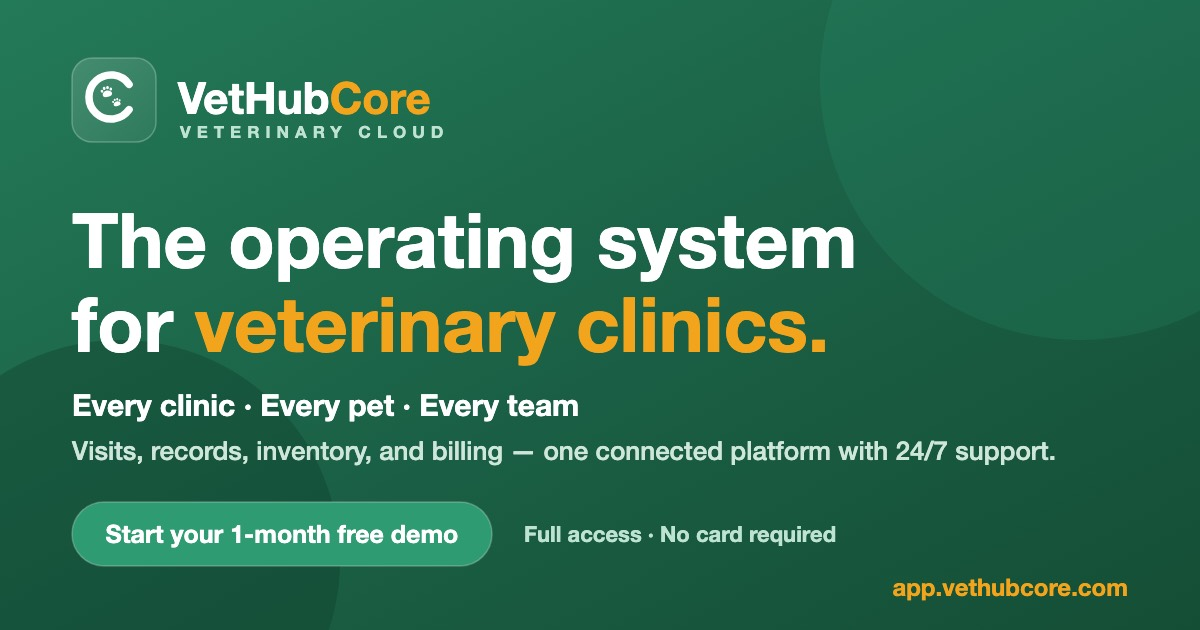
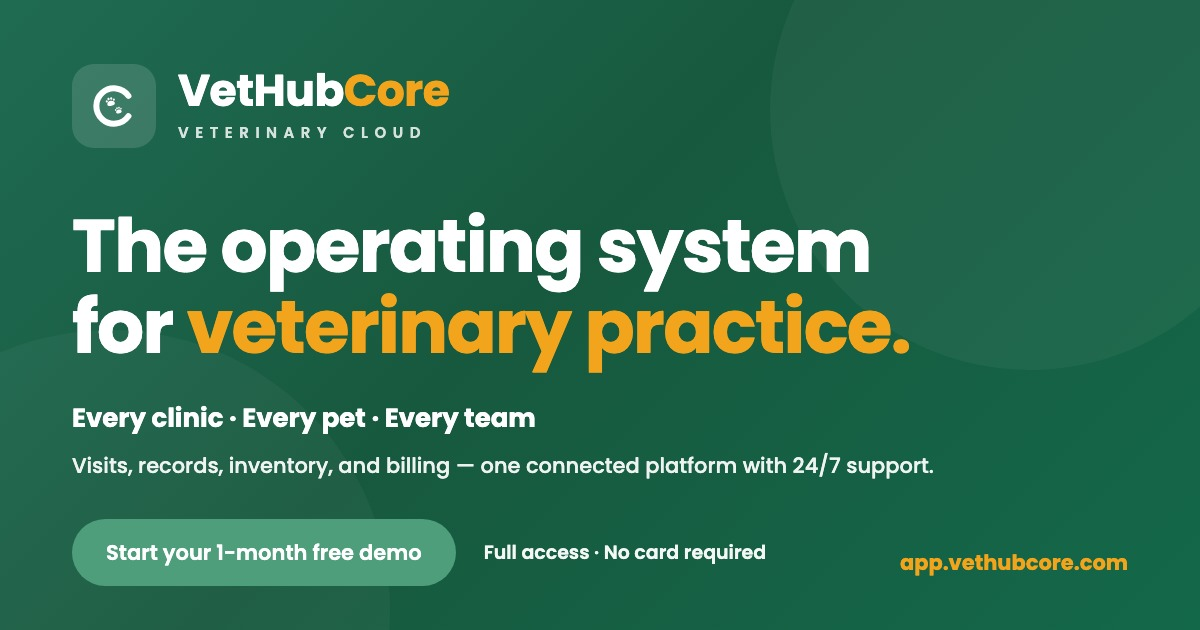
fix: the share card said 'veterinary clinics' while the page said 'veterinary practice'
The hero, the meta description and the noscript h1 all said practice; only the
three titles and the OG artwork said clinics, so a shared link contradicted the
page it opened.

Titles updated and og-image.jpg re-rendered with the headline in the amber the
card already used elsewhere. Cache-buster ?v=3 -> ?v=4: WhatsApp, Facebook and
X cache the image BY URL, so replacing the file at the same path would leave
the old card serving for weeks.

keywords and the structured-data alternateName lists keep 'VetHub' / 'Vet Hub'
on purpose - those are search terms, not the wordmark.

diff --git a/index.html b/index.html
@@ -6,12 +6,12 @@
   <meta name="viewport" content="width=device-width, initial-scale=1.0">
 
   <!-- ── SEO ───────────────────────────────────────────────────────── -->
-  <title>VetHub Core — The Operating System for Veterinary Clinics</title>
+  <title>VetHubCore — The Operating System for Veterinary Practice</title>
   <meta name="description" content="The operating system for veterinary practice. Every clinic · Every pet · Every team. Visits, records, inventory, and billing — one connected platform with 24/7 support. Start your 1-month free demo: full access, no card required.">
   <meta name="keywords" content="VetHub, Vet Hub, VetHub Core, Vet Hub Core, VetHubCore, vethubcore, vethubcore.com, VetHub vet software, VetHub veterinary, VetHub clinic, VetHub app, VetHub login, VetHub Kenya, VetHub Uganda, VetHub Tanzania, VetHub Nigeria, VetHub Ghana, VetHub Rwanda, VetHub South Africa, VetHub East Africa, VetHub Africa, veterinary practice management software, vet clinic software, pet clinic management, vet appointment scheduling, veterinary EMR, pet owner portal, M-Pesa vet payments, veterinary boarding software, pet boarding management, veterinary laboratory software, vet lab results, veterinary surgery management, veterinary imaging software, vet radiology, veterinary inpatient software, animal hospitalization management, emergency vet software, pet grooming software, veterinary vaccination reminders, vaccine package management, veterinary dental records, veterinary pharmacy inventory, vet billing and invoicing, veterinary software Kenya, veterinary software Uganda, veterinary software Tanzania, veterinary software Nigeria, veterinary software Ghana, veterinary software Rwanda, veterinary software South Africa, veterinary software East Africa, veterinary software Africa">
-  <meta name="author" content="VetHub Core">
-  <meta name="application-name" content="VetHub Core">
-  <meta name="apple-mobile-web-app-title" content="VetHub Core">
+  <meta name="author" content="VetHubCore">
+  <meta name="application-name" content="VetHubCore">
+  <meta name="apple-mobile-web-app-title" content="VetHubCore">
   <meta name="robots" content="index, follow, max-image-preview:large">
   <meta name="theme-color" content="#144E35">
   <link rel="canonical" href="https://app.vethubcore.com/">
@@ -22,23 +22,23 @@
 
   <!-- ── Open Graph (WhatsApp, Facebook, LinkedIn) ─────────────────── -->
   <meta property="og:type" content="website">
-  <meta property="og:site_name" content="VetHub Core">
+  <meta property="og:site_name" content="VetHubCore">
   <meta property="og:url" content="https://app.vethubcore.com/">
-  <meta property="og:title" content="VetHub Core — The Operating System for Veterinary Clinics">
+  <meta property="og:title" content="VetHubCore — The Operating System for Veterinary Practice">
   <meta property="og:description" content="Every clinic · Every pet · Every team. Visits, records, inventory, and billing — one connected platform with 24/7 support. Start your 1-month free demo — full access, no card required.">
-  <meta property="og:image" content="https://app.vethubcore.com/og-image.jpg?v=3">
-  <meta property="og:image:secure_url" content="https://app.vethubcore.com/og-image.jpg?v=3">
+  <meta property="og:image" content="https://app.vethubcore.com/og-image.jpg?v=4">
+  <meta property="og:image:secure_url" content="https://app.vethubcore.com/og-image.jpg?v=4">
   <meta property="og:image:type" content="image/jpeg">
   <meta property="og:image:width" content="1200">
   <meta property="og:image:height" content="630">
-  <meta property="og:image:alt" content="VetHub Core — the operating system for veterinary practice">
+  <meta property="og:image:alt" content="VetHubCore — the operating system for veterinary practice">
   <meta property="og:locale" content="en_US">
 
   <!-- ── Twitter / X ───────────────────────────────────────────────── -->
   <meta name="twitter:card" content="summary_large_image">
-  <meta name="twitter:title" content="VetHub Core — The Operating System for Veterinary Clinics">
+  <meta name="twitter:title" content="VetHubCore — The Operating System for Veterinary Practice">
   <meta name="twitter:description" content="Every clinic · Every pet · Every team. Visits, records, inventory, and billing — one connected platform with 24/7 support.">
-  <meta name="twitter:image" content="https://app.vethubcore.com/og-image.jpg?v=3">
+  <meta name="twitter:image" content="https://app.vethubcore.com/og-image.jpg?v=4">
 
   <link rel="preconnect" href="https://fonts.googleapis.com">
   <link rel="preconnect" href="https://fonts.gstatic.com" crossorigin>
@@ -52,7 +52,7 @@
       {
         "@type": "Organization",
         "@id": "https://app.vethubcore.com/#organization",
-        "name": "VetHub Core",
+        "name": "VetHubCore",
         "alternateName": ["VetHubCore", "VetHub", "Vet Hub", "Vet Hub Core"],
         "url": "https://app.vethubcore.com/",
         "logo": "https://app.vethubcore.com/favicon-512.png",
@@ -72,13 +72,13 @@
         "@type": "WebSite",
         "@id": "https://app.vethubcore.com/#website",
         "url": "https://app.vethubcore.com/",
-        "name": "VetHub Core",
+        "name": "VetHubCore",
         "publisher": { "@id": "https://app.vethubcore.com/#organization" },
         "inLanguage": "en"
       },
       {
         "@type": "SoftwareApplication",
-        "name": "VetHub Core",
+        "name": "VetHubCore",
         "alternateName": ["VetHubCore", "VetHub", "Vet Hub"],
         "applicationCategory": "BusinessApplication",
         "applicationSubCategory": "Veterinary Practice Management Software",
@@ -133,9 +133,9 @@
   <div id="root">
     <!-- Crawler-visible content fallback (replaced by the React app on load). -->
     <noscript>
-      <h1>VetHub Core — The operating system for veterinary practice</h1>
+      <h1>VetHubCore — The operating system for veterinary practice</h1>
       <p>
-        VetHub Core is veterinary practice management software that runs your whole
+        VetHubCore is veterinary practice management software that runs your whole
         clinic in one place: appointment scheduling, patient and medical records,
         inventory, invoicing, and M-Pesa &amp; card payments — plus a pet-owner portal
         for booking, messaging and paying online.

diff --git a/CHANGELOG.md b/CHANGELOG.md
@@ -59,6 +59,23 @@ journey), `data-shape` (a change in the API response the UI consumes), `config`
 
 ## [Unreleased]
 
+### fix: a shared link said "veterinary clinics", the page it opened said "veterinary practice"  —  2026-08-06
+- **What changed:** `<title>`, `og:title` and `twitter:title` now read **"VetHubCore — The
+  Operating System for Veterinary Practice"**, and `public/og-image.jpg` was re-rendered with the
+  headline in the amber the rest of the card already used. Cache-buster **`?v=3` → `?v=4`**.
+- **Why:** the hero, the meta description and the noscript `h1` all said *practice*; only the
+  three titles and the artwork said *clinics*. A link preview therefore contradicted the page it
+  opened (user, 2026-08-06: *"link still shows veterinary clinics"*).
+- **Record impact:** 🟢 None — metadata + a static asset.
+- ⚠ **Bumping the query string is the load-bearing part.** WhatsApp, Facebook and X cache an OG
+  image BY URL; replacing the file at the same path leaves the old card serving for weeks.
+- ⚠ `keywords` and the structured-data `alternateName` lists still carry "VetHub", "Vet Hub" and
+  "Vet Hub Core" **on purpose** — those are what people type into search. They are not the
+  wordmark and must not be normalised away.
+- ⚠ The card was **re-rendered from HTML**, not exported from the original design source.
+  It matches closely; a future edit should come from the real source and replace this.
+- ⚠ `public/og-image.png` is the older 1200×630 and is now stale. Nothing references it.
+
 ### feat: admin Add Clinic creates the OWNER (and the wizard could never create a clinic before)  —  2026-08-06
 - **What changed:** the wizard gains an **Owner** step (add mode only) — first name, surname,
   email (labelled as the login), phone, optional password. On create the server makes the user
